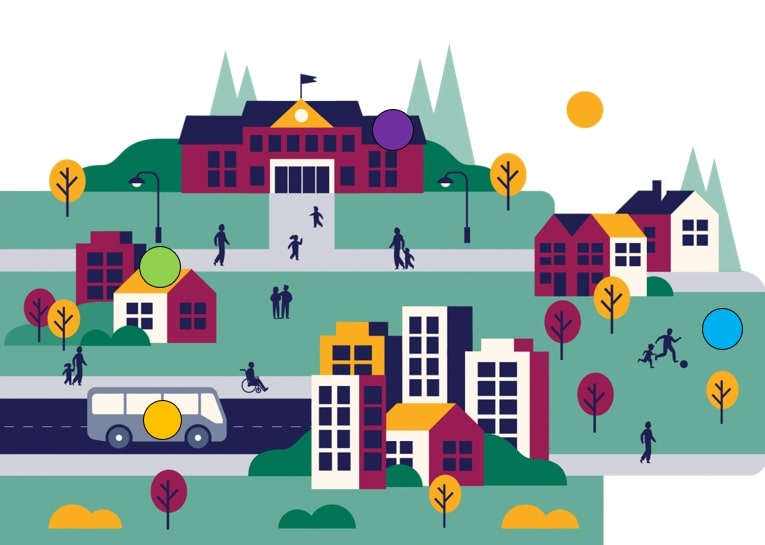
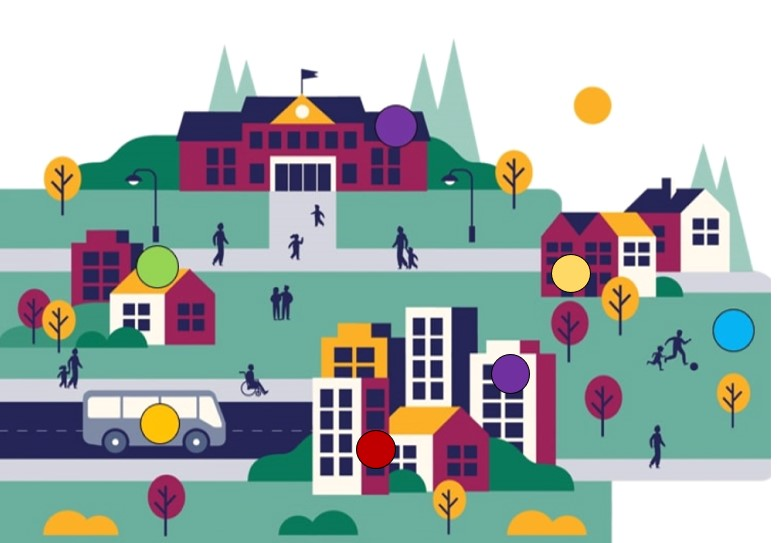
all data added

Changed region(s): [[0.0, 0.0884, 1.0, 1.0], [0.7516, 0.6777, 0.8118, 0.7956], [0.7216, 0.1473, 0.8118, 0.2357]]

diff --git a/src/taskData.js b/src/taskData.js
@@ -1,25 +1,244 @@
 export const taskData = [
     {
+        id: 0,
         name: "Residents",
         tasks: {
-                beforeFireTasks: "Vegetation Management. Create priority zones to evaluate management work needed in each zone. /br Residents should agree how to manage each area.",
-                duringFireTasks : "Place valuables in vehicle if possible to be prepped for quick departure",
-                afterFireTasks: "Place valuables in vehicle if possible to be prepped for quick departure", 
+                beforeFireTasks: "- Vegetation Management. Create priority zones to evaluate management work needed in each zone.  \n- Installation of a Fire/Fuel Breaks. Fire breaks are cleared area with little to no fuel sources, and fuel breaks are trenches dug down to mineral soil to stop the surface fire spread. \n- Have a shovel and digging tool to manage small fires close to buildings. Also sprinkler system (water hose) if possible \n- Have firefighting tools propped against the house in a visible place" ,
+                duringFireTasks : " 1. Report fire to Emergency Site  \n2. Close all windows and doors,  moving combustibles away from windows/doors \n3. Place valuables in vehicle if possible to be prepped for quick departure \n4. Turn off propane or natural gas valves and clear surrounding vegetation from the tanks \n5. Fill sinks, tubs, and buckets with water as water reservoirs. Gather buckets and towels \n6. Cover all openings with fire-resistant materials to keep embers/sparks out of the house \n7. Request needed resources from Emergency Co-ordinator",
+                afterFireTasks: "- Request reimbursments for evacuation costs from food and gas", 
             }
         //relevant icons
-          
-        
     },
+
     {
-        name: "Transportation",
+        id: 1,
+        name: "Local Fire Department",
         tasks: {
-            beforeFireTasks: "SEE OTHER CATEGORIES",
-            duringFireTasks: "Manage traffic",
-            afterFireTasks: "Secure any transportation corridors affected by the incident",
+            beforeFireTasks: "- Interface Priority Zones. Determine fuel considerations around building(s) \n- Structural Assessments. This is an evaluation of the buildings in the Wildland Urban Interface (WUI). A scoring system evaluates the flammability of the building's materials to assess the overall fire risk to the structure \n- Fire Suppression Checklist. This list evaluates the ability of the fire service to respond to fire incidents",
+            duringFireTasks: "- Protect lives and property within jurisdiction \n- Primary role is structural fire suppression, but in some jurisdictions may be wildfire as well \n- Fire Commisioner's Office: Provide authority for evacuation initiatives in some provinces",
+            afterFireTasks: "SEE OTHER CATEGORIES",
         }
            
             
         },
+
+    {
+        id: 2,
+        name: "Local Authorities",
+        tasks: {
+            beforeFireTasks: "- Have reflective, non combustible signs for the roadways \n- Ensure Fire service personnel have access to any locks or gates that restrict access on the roadways \n- Ensure roadways are capable of handling fire crews' vehicles; both for their weight and length",
+            duringFireTasks: "SEE OTHER CATEGORIES",
+            afterFireTasks: "SEE OTHER CATEGORIES",
+        }
+               
+                
+    },
+    
+    {
+        id: 3,
+        name: "Electric Company",
+        tasks: {
+            beforeFireTasks: "- Maintain vegetation around above ground power delivery lines. Underground power lines are most ideal",
+            duringFireTasks: "SEE OTHER CATEGORIES",
+            afterFireTasks: "SEE OTHER CATEGORIES",
+        }
+           
+            
+        },
+
+    {
+        id: 4,
+        name: "Wildland Firefighters",
+        tasks: {
+            beforeFireTasks: "- Have practiced in both training and drills",
+            duringFireTasks: "- Create defensive breaks in wildfire scenario (a location deprived of fuels due to terrain, absence of fuels) \n- Protect forest and range resources on public lands within their jurisdiction",
+            afterFireTasks: "SEE OTHER CATEGORIES",
+        }
+           
+            
+        },
+
+    {
+        id: 5,
+        name: "Emergency Co-ordinator",
+        tasks: {
+            beforeFireTasks: "- Develop an Emergency Plan with other stakeholders involved \n- Maintains and updates the Emergency Plan as well as its listed contacts \n- Oversees the region's emergency preparedness program \n- Run evacuation drills for community",
+            duringFireTasks: "- Maintain contact with the emergency site \n- Directs the emergency operation as a decision maker/faciliator \n- Ensures requested resources are provided to the emergency site \n- Keep officials informed on the situation \n- Co-ordinates resource allocation to other needs outside the site",
+            afterFireTasks: "SEE OTHER CATEGORIES",
+        }
+               
+                
+    },
+
+    {
+        id: 6,
+        name: "Emergency Site Commander",
+        tasks: {
+            beforeFireTasks: "SEE OTHER CATEGORIES",
+            duringFireTasks: "- Activate the public emergency warning system \n- Establishes perimeters and moves responders and affected public to safe positions \n- Ensures communication back to Emergency Operations Centre \n- Requests resources from Emergency Operations Centre as needed \n - Co-ordinates all response efforts at the site, makes decisions and establishes mutual priorities while allocating resources \n- Communicate with all agencies and disseminate information \n- Monitors the event to ensure all responders are informed \n -Ensures resources are used appropriately",
+            afterFireTasks: "SEE OTHER CATEGORIES",
+        }
+               
+                
+    },
+
+    {
+        id: 7,
+        name: "Emergency Operations Centre Liasion",
+        tasks: {
+            beforeFireTasks: "SEE OTHER CATEGORIES",
+            duringFireTasks: "- Determine the nature and scope of the incident \n- Ensure all mandated agency responsibilities are fulfilled \n- Ensures that agency's resources are available or brought to the emergency site \n- Ensures safe and effective response is occurring \n- Establishes a communication link with emergency site and Emergency Operations Centre to ensure information flows \n- Contacts mutual aid partners to provide status and resource needs",
+            afterFireTasks: "SEE OTHER CATEGORIES",
+        }
+               
+                
+    },
+
+    {
+        id: 8,
+        name: "Emergency Operations Centre",
+        tasks: {
+            beforeFireTasks: "SEE OTHER CATEGORIES",
+            duringFireTasks: "- Co-ordinates the provincial government response and municipal support to the local government \n-Provides specialized leasing, purchasing, or borrowing of emergency products or services \n- Provides timely distribution of reliable information to reduce rumours and misinformation \n- Assists with requests for supporting materials and supplies beyond the capacity of the municipality\n -Operations centre reps remain in constant contact with the affected municipality via the provincial emergency management organization liaison officer who is typically present at the EOC",
+            afterFireTasks: "SEE OTHER CATEGORIES",
+        }
+               
+                
+    },
+
+    {
+        id: 9,
+        name: "Government Emergency Organizer Liasion",
+        tasks: {
+            beforeFireTasks: "SEE OTHER CATEGORIES",
+            duringFireTasks: "- Establish communications between governent and municipal / local authority emergency management organizations \n- Shadows municipal / local authority to provide external perspective to the progress \n- Assess evolving resource requirements that may involve provincial or federal resources",
+            afterFireTasks: "SEE OTHER CATEGORIES",
+        }
+                
+    },
+
+    {
+        id: 10,
+        name: "Utility and Public Works",
+        tasks: {
+            beforeFireTasks: "SEE OTHER CATEGORIES",
+            duringFireTasks: "- Assist response with technical support",
+            afterFireTasks: "- Assess and reestablish damaged infrastructure",
+        }
+               
+                
+    },
+
+    {
+        id: 11,
+        name: "Transportation Authority",
+        tasks: {
+            beforeFireTasks: "SEE OTHER CATEGORIES",
+            duringFireTasks: "- Manage traffic \n- Establishes and control detours",
+            afterFireTasks: "- Secure any transportation corridors affected by the incident \n- Maintains, repairs, and expedites reopening of transport infrastructure",
+        }
+               
+                
+    },
+
+    {
+        id: 12,
+        name: "Police",
+        tasks: {
+            beforeFireTasks: "SEE OTHER CATEGORIES",
+            duringFireTasks: "- Protect life and property, establish and maintain a secure incident perimeter\n- Control traffic and crowds \n- Coordinate emergency evacuations and enforce evacuation orderes",
+            afterFireTasks: "- Safeguard evidence, conduct investigations",
+        }
+ 
+    },
+
+    {
+        id: 13,
+        name: "Social Services",
+        tasks: {
+            beforeFireTasks: "SEE OTHER CATEGORIES",
+            duringFireTasks: "- Activate reception centre \n- Provide food, shelter, clothing, and personal services for evacuess \n- Register and track evacuees",
+            afterFireTasks: "SEE OTHER CATEGORIES",
+        }
+ 
+    },
+
+    {
+        id: 14,
+        name: "Environment Advisor",
+        tasks: {
+            beforeFireTasks: "SEE OTHER CATEGORIES",
+            duringFireTasks: "- Works with responders to ensure that safe and effective incident response has minimal adverse environmental impacts",
+            afterFireTasks: "- Monitor environmental impacts associated with incident",
+        }
+ 
+    },
+
+    {
+        id: 15,
+        name: "Health Advisor",
+        tasks: {
+            beforeFireTasks: "SEE OTHER CATEGORIES",
+            duringFireTasks: "- Addresses incident specific health concerns of affected public or responders \n- Communicate with social services to attend to health care concerns of evacuees",
+            afterFireTasks: "- Arrange counsel for residents after evacuation, and ensure residents are aware of resources",
+        }
+ 
+    },
+
+    {
+        id: 16,
+        name: "Agriculture Advisor",
+        tasks: {
+            beforeFireTasks: "SEE OTHER CATEGORIES",
+            duringFireTasks: "- Assess and mitigate the impact of fire on Agricutlural Resources \n- Assist with evacuation and care of livestock (or slaughter and disposal of injured livestock)",
+            afterFireTasks: "SEE OTHER CATEGORIES",
+        }
+ 
+    },
+
+    {
+        id: 17,
+        name: "Public Informations Officer",
+        tasks: {
+            beforeFireTasks: "SEE OTHER CATEGORIES",
+            duringFireTasks: "- Ensure all info released has been approved by the municipal emergency coordinator \n- Maintains contact with all emergency centre representatives \n- Ensures that all inquires are responded to accurately and promptly",
+            afterFireTasks: "SEE OTHER CATEGORIES",
+        }
+ 
+    },
+
+    {
+        id: 18,
+        name: "Media",
+        tasks: {
+            beforeFireTasks: "SEE OTHER CATEGORIES",
+            duringFireTasks: "- Report the news \n- Assist prevention and preparedness efforts with public service bulletins and announcements \n- Assist response and recovery efforts by informing the public of incident status, current risk, and protective measures",
+            afterFireTasks: "SEE OTHER CATEGORIES",
+        }
+ 
+    },
+
+    {
+        id: 19,
+        name: "Local Volunteer Organizations",
+        tasks: {
+            beforeFireTasks: "- Local volunteers fulfill roles as needed",
+            duringFireTasks: "- Local volunteers fulfill roles as needed",
+            afterFireTasks: "- Local volunteers fulfill roles as needed",
+        }
+ 
+    },
+
+    {
+        id: 20,
+        name: "Local Leader",
+        tasks: {
+            beforeFireTasks: "- Ensure the community is prepared for emergency (pre-incident) \n- Maintain relationship with provincial emergency management agencies",
+            duringFireTasks: "- Provide overall leadership and continuity of government \n- Declare a state of emergency \n- Communicate incident status (through news conferences and official statements) \n- During incident their number one concern is public safety and protection of property \n- Communicate with police, social services, fire depatment and other external groups \n- Spread Evacuation order and ensure entire band is aware whether it is voluntary or mandatory",
+            afterFireTasks: "- Communcicate funding available to band members (eg. For groceries or gas)",
+        }
+ 
+    },
         
 ];
 

diff --git a/src/App.js b/src/App.js
@@ -17,6 +17,7 @@ function App() {
   const [timelineShown, setTimelineShown] = useState (false);
   const [taskShown, setTaskShown] = useState (false);
   const [mapShown, setMapShown] = useState (true);
+  const [currParameter, setCurrParameter] = useState ();
   
   const handleRoleClicked = (roleName, roleIndex) => {
     setRole (roleName);
@@ -38,27 +39,31 @@ function App() {
 
   return (
     <div className="App">
-      <h1>Wildfire Preparedness</h1>
+      <h1><u>Wildfire Preparedness</u></h1>
     {mapShown && (<div>
         <img src={communityImage} alt = "communitymap" usemap = "#mainmap"/>
         <map name = "mainmap">
              <area shape="circ" coords="150,270,30" onClick = {() => handleRoleClicked('Residents', 0)} />
-             <area shape="circ" coords="163,422,30" onClick = {() => handleRoleClicked('Transportation', 1)}/>            
-
+             <area shape="circ" coords="163,422,30" onClick = {() => handleRoleClicked('Transportation Authority', 11)}/>            
+             <area shape="circ" coords="390,130,30" onClick = {() => handleRoleClicked('Local Leader', 20)}/>
+             <area shape="circ" coords="375,450,30" onClick = {() => handleRoleClicked('Local Fire Department', 1)} />
+             <area shape="circ" coords="510,375,30" onClick = {() => handleRoleClicked('Health Advisor', 15)} />
+             <area shape="circ" coords="570,275,30" onClick = {() => handleRoleClicked('Social Services', 13)} />
+             <area shape="circ" coords="735,330,30" onClick = {() => handleRoleClicked('Environment Advisor', 14)} />
         </map>
     </div> )}
 
 
-    {!mapShown &&(<div class = "backButton">
-      <button type = "button" onClick = {() => handleButtonClicked('Residents', 0) }> Back </button>
+    {!mapShown &&(<div class = "backButtonDiv">
+      <button class = "backButton" type = "button" onClick = {() => handleButtonClicked('Residents', 0) }> Back </button>
     </div>)}
 
-    <div class = "taskSection">
+    <div>
       {timelineShown && (<div>
-        <h2>{roleSelected} Timeline</h2>
-        <img src= {beforeFire} class = "timelineGraphic" onClick = {() => handleTimelineClicked('beforeFireTasks')} />
-        <img src={duringFire} class = "timelineGraphic" onClick = {() => handleTimelineClicked('duringFireTasks')}/>
-        <img src={afterFire} class = "timelineGraphic" onClick = {() => handleTimelineClicked('afterFireTasks')}/>
+        <h1>{roleSelected} Timeline</h1>
+        <img src= {beforeFire} class = "timelineGraphic" onClick = {() => handleTimelineClicked('Before the Fire')} />
+        <img src={duringFire} class = "timelineGraphic" onClick = {() => handleTimelineClicked('During the Fire')}/>
+        <img src={afterFire} class = "timelineGraphic" onClick = {() => handleTimelineClicked('After the Fire')}/>
     
         
       </div>)}
@@ -68,7 +73,9 @@ function App() {
       {/* data: {JSON.stringify(taskData)}; taskData[roleIndex]*/}
       {/* {taskData.map((role, key)=>{return key = {residents} <h1>{role.afterFireTasks}</h1>})} */}
       
-      <h3 class = "taskSection">{taskData[roleIndex].tasks.afterFireTasks}</h3>
+      {timelineSelected =='Before the Fire' && (<h2 class = "tasks">{taskData[roleIndex].tasks.beforeFireTasks}</h2>)}
+      {timelineSelected =='During the Fire' && (<h2 class = "tasks">{taskData[roleIndex].tasks.duringFireTasks}</h2>)}
+      {timelineSelected =='After the Fire' && (<h2 class = "tasks">{taskData[roleIndex].tasks.afterFireTasks}</h2>)}
       </div>)}
 
     </div>

diff --git a/src/index.css b/src/index.css
@@ -5,6 +5,8 @@ body {
     sans-serif;
   -webkit-font-smoothing: antialiased;
   -moz-osx-font-smoothing: grayscale;
+  white-space: pre-line;
+  
 }
 
 code {
@@ -17,6 +19,7 @@ code {
   height: 200px;
   align-items: center;
   justify-content: center;
+  padding: 10px;
 }
  
 .taskList {
@@ -25,16 +28,34 @@ code {
 }
 
 .backButton{
-  padding-left: 300px;
   text-align: left;
   font-size: 26px;
-  background-color: rgb(159, 159, 218);
-};
+  /*background-color: rgb(159, 159, 218); */
+}
+
+.backButtonDiv{
+  padding-left: 200px;
+  text-align: left;
+  font-size: 26px;
+  /*background-color: rgb(159, 159, 218); */
+}
 
 .taskSection{
-  background-color: rgb(202, 156, 156);
+  margin: 30px;
+  border: 3px solid blue;
+  border-color: rgb(0, 0, 0);
+  background-color: rgb(187, 187, 187);
+  
+  /*background-color: red;*/
+}
+
+.tasks{
+  text-align: left;
+  padding-left: 100px;
+  padding-right: 100px;
   
 }
+
 .popup {
   padding: 10px;
   background-color: rgba(56, 69, 150, 0.9);
